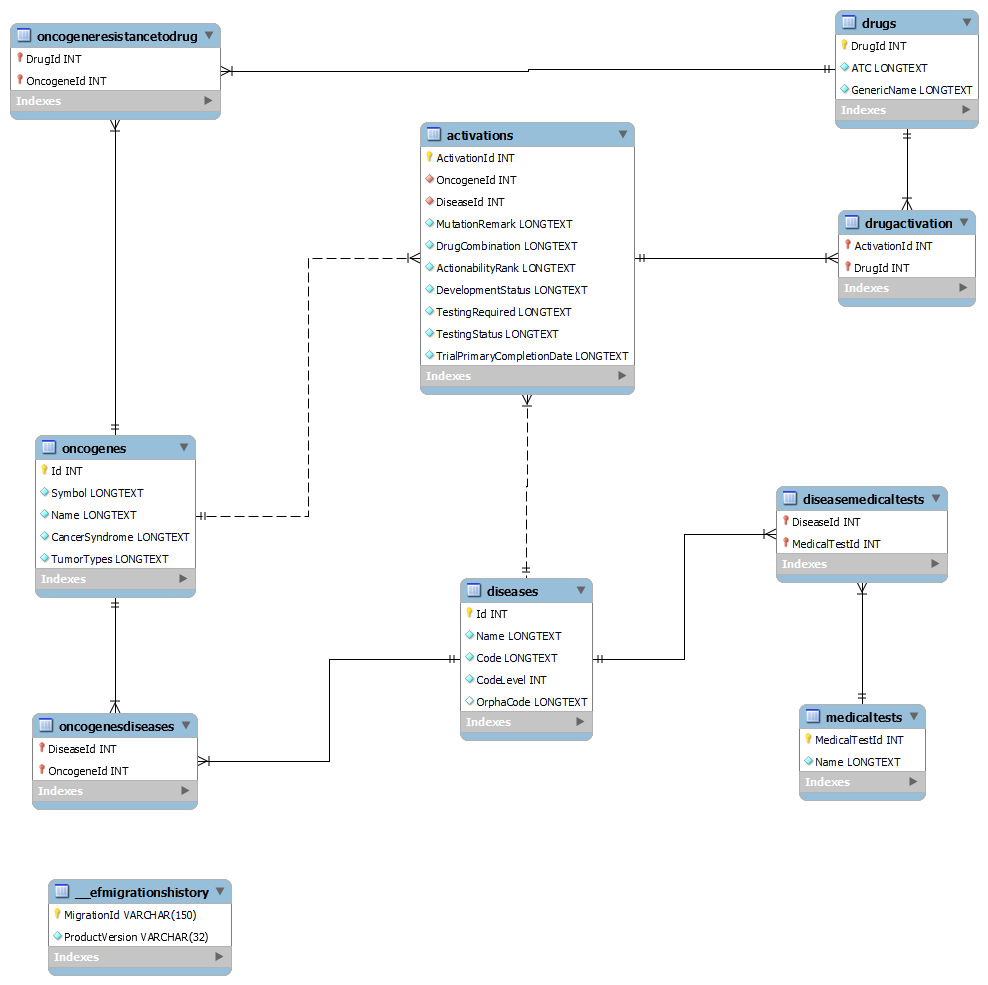
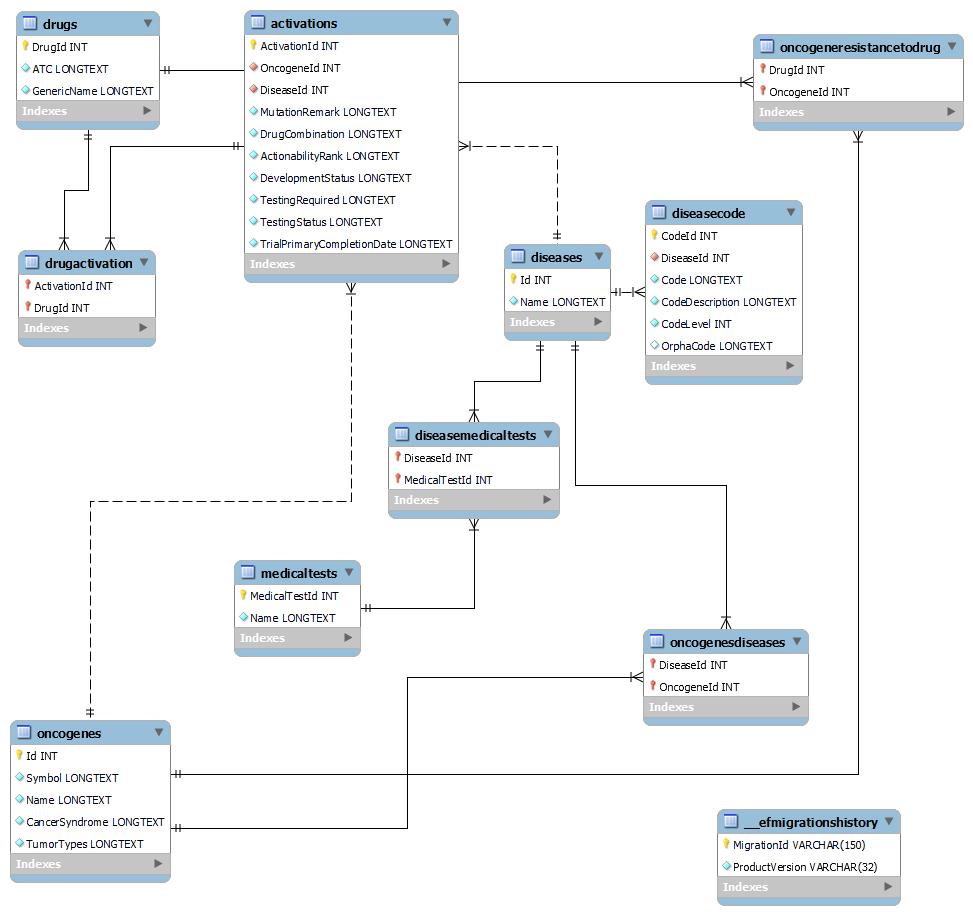
Refactored disease code to separate branch

diff --git a/OncogenesInformationSystem/Oncogenes.DAL/Migrations/20230516091509_AddedDiseaseCode.cs b/OncogenesInformationSystem/Oncogenes.DAL/Migrations/20230516091509_AddedDiseaseCode.cs
@@ -1,0 +1,82 @@
+using Microsoft.EntityFrameworkCore.Migrations;
+using MySql.EntityFrameworkCore.Metadata;
+
+#nullable disable
+
+namespace Oncogenes.DAL.Migrations
+{
+    /// <inheritdoc />
+    public partial class AddedDiseaseCode : Migration
+    {
+        /// <inheritdoc />
+        protected override void Up(MigrationBuilder migrationBuilder)
+        {
+            migrationBuilder.DropColumn(
+                name: "Code",
+                table: "Diseases");
+
+            migrationBuilder.DropColumn(
+                name: "CodeLevel",
+                table: "Diseases");
+
+            migrationBuilder.DropColumn(
+                name: "OrphaCode",
+                table: "Diseases");
+
+            migrationBuilder.CreateTable(
+                name: "DiseaseCode",
+                columns: table => new
+                {
+                    CodeId = table.Column<int>(type: "int", nullable: false)
+                        .Annotation("MySQL:ValueGenerationStrategy", MySQLValueGenerationStrategy.IdentityColumn),
+                    DiseaseId = table.Column<int>(type: "int", nullable: false),
+                    Code = table.Column<string>(type: "longtext", nullable: false),
+                    CodeDescription = table.Column<string>(type: "longtext", nullable: false),
+                    CodeLevel = table.Column<int>(type: "int", nullable: false),
+                    OrphaCode = table.Column<string>(type: "longtext", nullable: true)
+                },
+                constraints: table =>
+                {
+                    table.PrimaryKey("PK_DiseaseCode", x => x.CodeId);
+                    table.ForeignKey(
+                        name: "FK_DiseaseCode_Diseases_DiseaseId",
+                        column: x => x.DiseaseId,
+                        principalTable: "Diseases",
+                        principalColumn: "Id",
+                        onDelete: ReferentialAction.Cascade);
+                })
+                .Annotation("MySQL:Charset", "utf8mb4");
+
+            migrationBuilder.CreateIndex(
+                name: "IX_DiseaseCode_DiseaseId",
+                table: "DiseaseCode",
+                column: "DiseaseId");
+        }
+
+        /// <inheritdoc />
+        protected override void Down(MigrationBuilder migrationBuilder)
+        {
+            migrationBuilder.DropTable(
+                name: "DiseaseCode");
+
+            migrationBuilder.AddColumn<string>(
+                name: "Code",
+                table: "Diseases",
+                type: "longtext",
+                nullable: false);
+
+            migrationBuilder.AddColumn<int>(
+                name: "CodeLevel",
+                table: "Diseases",
+                type: "int",
+                nullable: false,
+                defaultValue: 0);
+
+            migrationBuilder.AddColumn<string>(
+                name: "OrphaCode",
+                table: "Diseases",
+                type: "longtext",
+                nullable: true);
+        }
+    }
+}

diff --git a/OncogenesInformationSystem/Oncogenes.DAL/Migrations/20230516091509_AddedDiseaseCode.Designer.cs b/OncogenesInformationSystem/Oncogenes.DAL/Migrations/20230516091509_AddedDiseaseCode.Designer.cs
@@ -1,6 +1,7 @@
 // <auto-generated />
 using Microsoft.EntityFrameworkCore;
 using Microsoft.EntityFrameworkCore.Infrastructure;
+using Microsoft.EntityFrameworkCore.Migrations;
 using Microsoft.EntityFrameworkCore.Storage.ValueConversion;
 using Oncogenes.DAL;
 
@@ -9,9 +10,11 @@ using Oncogenes.DAL;
 namespace Oncogenes.DAL.Migrations
 {
     [DbContext(typeof(OncogenesContext))]
-    partial class OncogenesContextModelSnapshot : ModelSnapshot
+    [Migration("20230516091509_AddedDiseaseCode")]
+    partial class AddedDiseaseCode
     {
-        protected override void BuildModel(ModelBuilder modelBuilder)
+        /// <inheritdoc />
+        protected override void BuildTargetModel(ModelBuilder modelBuilder)
         {
 #pragma warning disable 612, 618
             modelBuilder

diff --git a/OncogenesInformationSystem/Oncogenes.Domain/Disease.cs b/OncogenesInformationSystem/Oncogenes.Domain/Disease.cs
@@ -10,17 +10,13 @@ namespace Oncogenes.Domain
         [Required]
         public string Name { get; set; }
 
-        [Required]
-        public string Code { get; set; }
-
-        public int CodeLevel { get; set;}
-
-        public string? OrphaCode { get; set; }
-
         public List<Oncogene> Oncogenes { get; set; } = new();
 
         public List<Activation> Activations { get; set; } = new();
 
         public List<MedicalTest> MedicalTests { get; set; } = new();
+
+
+        public List<DiseaseCode> DiseaseCodes { get; set; } = new();
     }
 }

diff --git a/OncogenesInformationSystem/Oncogenes.Domain/DiseaseCode.cs b/OncogenesInformationSystem/Oncogenes.Domain/DiseaseCode.cs
@@ -1,0 +1,23 @@
+using System.ComponentModel.DataAnnotations;
+
+namespace Oncogenes.Domain
+{
+    public  class DiseaseCode
+    {
+        [Key]
+        public int CodeId { get; set; }
+        
+        public int DiseaseId { get; set; }
+
+        public string Code { get; set; }
+
+        public string CodeDescription { get; set; }
+        
+        public int CodeLevel { get; set; }
+
+        public string? OrphaCode { get; set; }
+
+        public Disease Disease { get; set; }
+
+    }
+}

diff --git a/OncogenesInformationSystem/Oncogenes.DAL/OncogenesContext.cs b/OncogenesInformationSystem/Oncogenes.DAL/OncogenesContext.cs
@@ -59,6 +59,12 @@ namespace Oncogenes.DAL
                        j => j.HasOne<Oncogene>().WithMany().HasForeignKey("OncogeneId")
                );
 
+            modelBuilder.Entity<DiseaseCode>()
+                .HasOne(dc => dc.Disease)
+                .WithMany(d => d.DiseaseCodes)
+                .HasForeignKey(dc => dc.DiseaseId);
+
+
             modelBuilder.Entity<MedicalTest>()
                 .HasMany(m => m.Diseases)
                 .WithMany(d => d.MedicalTests)
